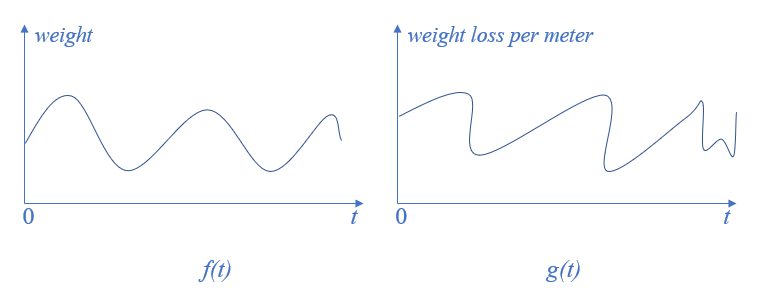
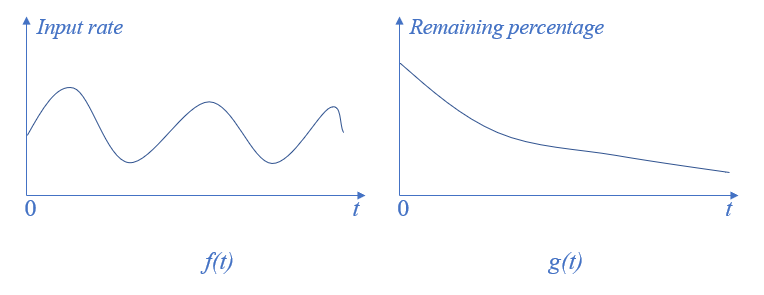
Site updated: 2023-05-13 00:06:12

diff --git a/2023/05/10/CNN/index.html b/2023/05/10/CNN/index.html
@@ -31,8 +31,13 @@
 <meta property="og:locale" content="en_US">
 <meta property="og:image" content="https://zclzcl0223.github.io/2023/05/10/CNN/1.png">
 <meta property="og:image" content="https://zclzcl0223.github.io/2023/05/10/CNN/2.png">
+<meta property="og:image" content="https://zclzcl0223.github.io/2023/05/10/CNN/3.png">
+<meta property="og:image" content="https://zclzcl0223.github.io/2023/05/10/CNN/4.png">
+<meta property="og:image" content="https://zclzcl0223.github.io/2023/05/10/CNN/5.png">
+<meta property="og:image" content="https://zclzcl0223.github.io/2023/05/10/CNN/6.png">
+<meta property="og:image" content="https://zclzcl0223.github.io/2023/05/10/CNN/7.png">
 <meta property="article:published_time" content="2023-05-10T15:45:10.000Z">
-<meta property="article:modified_time" content="2023-05-11T11:24:07.492Z">
+<meta property="article:modified_time" content="2023-05-12T16:04:48.927Z">
 <meta property="article:author" content="ChaosTsang">
 <meta property="article:tag" content="CNN">
 <meta property="article:tag" content="Deep learning">
@@ -206,7 +211,7 @@
                   <i class="far fa-calendar-check"></i>
                 </span>
                 <span class="post-meta-item-text">Edited on</span>
-                <time title="Modified: 2023-05-11 19:24:07" itemprop="dateModified" datetime="2023-05-11T19:24:07+08:00">2023-05-11</time>
+                <time title="Modified: 2023-05-13 00:04:48" itemprop="dateModified" datetime="2023-05-13T00:04:48+08:00">2023-05-13</time>
               </span>
             <span class="post-meta-item">
               <span class="post-meta-item-icon">
@@ -232,13 +237,35 @@
       
         <span id="more"></span>
 
-<h1 id="From-Dense-to-Convolution"><a href="#From-Dense-to-Convolution" class="headerlink" title="From Dense to Convolution"></a>From Dense to Convolution</h1><p>sadasd<br>adasd<br>asdas<br>sdas<br>d<br>asd<br>asd<br>as<br>das<br>d<br>as<br>d</p>
+<h1 id="From-Dense-to-Convolution"><a href="#From-Dense-to-Convolution" class="headerlink" title="From Dense to Convolution"></a>From Dense to Convolution</h1><p>The convolutional layer is the key layer of CNN. It is a special kind of dense layer. CNN is used to deal with images. In this section, we take the grayscale image as example, that is, the feature of an input image is a 2-D matrix. When processing images, firstly, it is reasonable that agents&#39;s awareness of a certain object should not be overly concerned with the precise location of the object in the image because what the object looks like has nothing to do with its position. Besides, the features of one object should only be related to the pixels around it as each pixel only determines the depth of the color and we distinguish objects by their color boundaries. These two priciples are called <em>translation invariance</em> and <em>locality</em> respectively. If fulfilling both priciples, dense layers become convolutional layers.</p>
+<h2 id="Constructing-a-dense-layer"><a href="#Constructing-a-dense-layer" class="headerlink" title="Constructing a dense layer"></a>Constructing a dense layer</h2><p>For convinience, we keep the dimension of a input image $X$ 2-D and make the model parameters of one neuron $w$ have the same dimension as $X$. Under such setting, the output of one neuron become:</p>
+<figure class="highlight python"><table><tr><td class="gutter"><pre><span class="line">1</span><br></pre></td><td class="code"><pre><span class="line">(X*w).<span class="built_in">sum</span>() <span class="comment"># w is a matrix</span></span><br></pre></td></tr></table></figure>
+
+<p>Now that the output of a hidden layer $H$ should be a image that has the same shape as $X$, we have to place $m*n$ neurons in the hidden layer, where $m$ and $n$ are the dimension of $X$. Hence, for a hidden layer, its model parameter $W$ is:</p>
+<p>$$<br>{\begin{bmatrix}<br>    {\begin{bmatrix}<br>        w_{0,0,0,0} &amp; w_{0,0,0,1}\\<br>        w_{0,0,1,0} &amp; w_{0,0,1,1}<br>    \end{bmatrix}<br>    \begin{bmatrix}<br>        w_{0,1,0,0} &amp; w_{0,1,0,1}\\<br>        w_{0,1,1,0} &amp; w_{0,1,1,1}<br>    \end{bmatrix}}\\<br>    {\begin{bmatrix}<br>        w_{1,0,0,0} &amp; w_{1,0,0,1}\\<br>        w_{1,0,1,0} &amp; w_{1,0,1,1}<br>    \end{bmatrix}<br>    \begin{bmatrix}<br>        w_{1,1,0,0} &amp; w_{1,1,0,1}\\<br>        w_{1,1,1,0} &amp; w_{1,1,1,1}<br>    \end{bmatrix}}<br>\end{bmatrix}} _{m\times n\times m\times n&#x3D;2\times 2\times 2\times 2}<br>$$</p>
+<p>And an element of output $H$ is:</p>
+<p>$$<br>[H]_{i,j}&#x3D;\sum_k \sum_l {[W]} _{i,j,k,l} {[X]} _{k,l} + {[U]} _{i,j}<br>$$</p>
+<p>where $U$ contains bias of each output pixel.</p>
+<h2 id="Translation-invariance"><a href="#Translation-invariance" class="headerlink" title="Translation invariance"></a>Translation invariance</h2><p>Now we can clearly see that in order to process an image with $m * n$ data, we almost use $(m * n)^2$ model parameters. This is extremely space-consuming. However, if we apply translation invariance priciple to the dense layer, we can cut it to $m * n$.</p>
+<p>As mentioned above, the activation of a pixel should have nothing to do with its position. This is only possible when ${[W]} _{i,j}$ and ${[U]} _{i,j}$ are both the same for any $(i,j)$. Hence, for a certain hidden layer, we actually just need a 2-D $W$ and a scalar $u$:</p>
+<p>$$<br>{[H]} _{i,j}&#x3D;\sum_k\sum_l{[W]} _{k,l} {[X]} _{k,l}+u<br>$$</p>
+<h2 id="Locality"><a href="#Locality" class="headerlink" title="Locality"></a>Locality</h2><p>So far, we have significantly cut the space of model parameters but it is still too large. Now it is time for <em>locality</em>. As motivated above, there is no need to look so far away from the location of input pixel ${[X]}_ {i,j}$. We just need to consider a small window around ${[X]} _{i,j}$:</p>
+<p>$${[H]}_ {i, j} &#x3D; u + \sum_{a &#x3D; -\Delta}^{\Delta} \sum_{b &#x3D; -\Delta}^{\Delta} {[V]}_ {a, b}  {[X]}_ {i+a, j+b}.$$</p>
+<p>where $\Delta\times\Delta$ is the size of the window and $V$ (size $\Delta\times\Delta$) is the model parameter inside the window, a filter that generates the feature of a zone in an image or a <strong>convolution kernel</strong>.</p>
+<p>Now we construct a convolutional layer with hyperparameters <em>kernel size</em> and <em>stride</em> (see below).</p>
+<p>$$Y &#x3D; X \star W+b$$</p>
+<p>$W$ and $b$ are model parameters that the agent can learn. $\star$ is cross-correlation operator which is slightly different from convolution but their behaviors are the same in the convolutional layer (see below). The dimensions of $Y$ are smaller than the original dimensions, which is:</p>
+<p>$$(n_h-k_h+1)\times(n_w-k_w+1)$$</p>
+<p>where $n_h$ and $n_w$ are the dimensions of $X$, $k_h$ and $k_w$ are the dimensions of $W$. It doesn&#39;t matter and we can solve it easily (see below).</p>
+<p><img src="/2023/05/10/CNN/1.png" alt="1"></p>
+<center style="font-size:12px">Fig. 1. Convolutional layer</center>
+
 <h1 id="Convolution-Fourier-and-Neural-Networks"><a href="#Convolution-Fourier-and-Neural-Networks" class="headerlink" title="Convolution, Fourier and Neural Networks"></a>Convolution, Fourier and Neural Networks</h1><p>Convolution is an operation on two functions ($f$ and $g$) that produces a third function ($f*g$) that express how the shape of one is modified by the other:</p>
 <p>$$(f*g)(t)&#x3D;\int_{-\infty} ^{+\infty}f(\tau)g(t-\tau)d\tau$$</p>
 <p>Physically, we can explain it from two perspectives.</p>
 <h2 id="Stock"><a href="#Stock" class="headerlink" title="Stock"></a>Stock</h2><p>Suppose there is a system with input $f(t)$ at each moment. The input starts decaying with $g(t)$ by the time it enters the system, where $g(t)$ is its remaining percentage.</p>
-<p><img src="/2023/05/10/CNN/1.png" alt="1"></p>
-<center style="font-size:12px">Fig. 1. f(t) and g(t)</center>
+<p><img src="/2023/05/10/CNN/2.png" alt="2"></p>
+<center style="font-size:12px">Fig. 2. f(t) and g(t)</center>
 
 <p>For items that enter the system between $(t,t+\Delta t)$, their margin at $x$ is:</p>
 <p>$$f(t)g(x-t)\Delta t$$</p>
@@ -246,13 +273,51 @@
 <p>$$\int_{t_1}^{t_2}f(t)g(x-t)dt$$</p>
 <p>In this case, we take $f(t)$ as the unstable input and $g(t)$ as the stable output to compute the stock of a system after some time.</p>
 <h2 id="Influence"><a href="#Influence" class="headerlink" title="Influence"></a>Influence</h2><p>In the explaination above, we actually make $dt$ relate to $f(t)$. Namely, $f(t)dt$ is the input of the system during $t$ and $t+\Delta t$. $g(x-t)$ has nothing to do with $dt$. It is just a decaying factor.</p>
-<p>However, we can also take $g(x-t)dt$ as a whole. This will make the $t$ and $f<em>g$ more meaningful. For example, we can regard $f(t)$ as a thing happens at $t$ and $g(t)$ as its influence over time. Then $f</em>g$ can be regarded as the totally influence at $x$ caused by things that happen during $t_1$ and $t_2$:</p>
+<p>However, we can also take $g(x-t)dt$ as a whole. This will make the $t$ and  $f * g$ more meaningful. For example, we can regard $f(t)$ as a thing happens at $t$ and $g(t)$ as its influence over time. Then $f*g$ can be regarded as the totally influence at $x$ caused by things that happen during $t_1$ and $t_2$:</p>
 <p>$$\int_{t_1}^{t_2}f(t)g(x-t)dt$$</p>
 <p>To go a step further, we can take $t$ as position, $f(t)$ as a thing happens at $t$ and keep moving from $t$ to $x$, $g(t)$ as its award or loss per distance. For example, some people whose weight $f(t)$ starts running as $t$ and they will loss $g(t)$ kg per meter. Then $f*g$ is the weight loss of all. (the fatter a person is, the more contribution he&#x2F;she makes).</p>
-<p><img src="/2023/05/10/CNN/2.png" alt="2"></p>
-<center style="font-size:12px">Fig. 2. weight and weight loss</center>
+<p><img src="/2023/05/10/CNN/3.png" alt="3"></p>
+<center style="font-size:12px">Fig. 3. weight and weight loss</center>
 
-<h2 id="Convolution-in-CNN"><a href="#Convolution-in-CNN" class="headerlink" title="Convolution in CNN"></a>Convolution in CNN</h2><h1 id="Reference"><a href="#Reference" class="headerlink" title="Reference"></a>Reference</h1><ul>
+<h2 id="Convolution-in-CNN"><a href="#Convolution-in-CNN" class="headerlink" title="Convolution in CNN"></a>Convolution in CNN</h2><p>For convolution in CNN, we&#39;d better expand its dimension to 2-D and take $t$ as a discrete number which represents position $(x,y)$. Then, we can take $X$ as function $f$ and $W$ as $g$. Now the meaning of convolution in CNN can be interpreted as the influence that pixels around $f(x,y)$ exert on pixel $f(x,y)$ or the certain average feature of the pixels around $f(x,y)$. </p>
+<p>$$f * g&#x3D;\sum _{i,j}f(i,j)g(x-i,y-j)$$</p>
+<p><img src="/2023/05/10/CNN/4.png" alt="4"></p>
+<center style="font-size:12px">Fig. 4. Convolution in CNN</center>
+
+<p>The phrase certain average feature may be a little confusing. However, if we regard the convolution kernel $W$ as a feature filter that extract specific features of a region of an image, it makes sense. Different filters extract different features and their parameters are totally learnt by the agent itself.</p>
+<p><img src="/2023/05/10/CNN/5.png" alt="5"></p>
+<center style="font-size:12px">Fig. 5. The feature filter</center>
+
+<p>There are still some differences between convolution and the convolutional layer, that is, $g$ is not the kernel we actually use. For example, convolution computes $f(x-1,y-1)g(1,1)$ rather than $f(x-1,y-1)g(-1,-1)$. However, in CNN, we actually compute $f(x-1,y-1)g(-1,-1)$. In fact, it doesn&#39;t matter. We just need to turn $g$ around and we get the $W$ we use in CNN. Hence, what the agent computes is <strong>cross-correlation</strong> rather than convolution but the results are the same so we just call it convolution.</p>
+<h1 id="Padding-and-stride"><a href="#Padding-and-stride" class="headerlink" title="Padding and stride"></a>Padding and stride</h1><p>Kernel size, padding and stride are the new hyperparameters that we can adjust in the convolutional layer. </p>
+<ol>
+<li>Kernel size determines the size of window. It is the simplest parameter among them. We usually set it to $3\times3$ or $5\times5$ for 2-D input.</li>
+<li>Padding is used to solve the dimensionality reduction problem of the output image.</li>
+<li>Stride determines the movement of window. The stride we use above is $1\times1$.</li>
+</ol>
+<h2 id="Padding"><a href="#Padding" class="headerlink" title="Padding"></a>Padding</h2><p>Padding adds extra rows and columns around the input images:</p>
+<p><img src="/2023/05/10/CNN/6.png" alt="6"></p>
+<center style="font-size:12px">Fig. 6. Padding</center>
+
+<p>After padding, the shape of output becomes:</p>
+<p>$$(n_h-k_h+1+p_h)\times(n_w-k_w+1+p_w)$$</p>
+<p>Generally, we let:</p>
+<p>$$<br>p_h&#x3D;k_h-1,\space p_w&#x3D;k_w-1<br>$$</p>
+<p>so that the shape of output is the same as the shape of input. For convinience, we often take $k_h\And k_w$ to be odd number. Therefore, we can pad $p_h&#x2F;2$ ($p_w&#x2F;2$)<br> on both sides. If $k_h\And k_w$ are even, $\lceil p_h&#x2F;2\rceil$ on the upper side and $\lfloor p_h&#x2F;2\rfloor$ on the lower side or vice versa.</p>
+<h2 id="Stride"><a href="#Stride" class="headerlink" title="Stride"></a>Stride</h2><p>Stirde refers to the step size of the kernel window on the row and column. When stride is too small, the agent will need a amount of computation to get a small ouput.</p>
+<p><img src="/2023/05/10/CNN/7.png" alt="7"></p>
+<center style="font-size:12px">Fig. 7. Stride (3*2)</center>
+
+<p>For a certain stride $s_h\times s_w$, the shape of output becomes:</p>
+<p>$$\lfloor(n_h-k_h+p_h)&#x2F;s_h+1\rfloor\times\lfloor(n_w-k_w+p_w)&#x2F;s_w+1\rfloor<br>$$</p>
+<p>If:</p>
+<p>$$<br>p_h&#x3D;k_h-1,\space p_w&#x3D;k_w-1<br>$$</p>
+<p>The shape becomes:</p>
+<p>$$\lfloor(n_h-1)&#x2F;s_h+1\rfloor\times\lfloor(n_w-1)&#x2F;s_w+1\rfloor<br>$$</p>
+<blockquote>
+<p>We can roughly regard that the stride will cut the shape of output by a factor of $s_h\And s_w$.</p>
+</blockquote>
+<h1 id="Reference"><a href="#Reference" class="headerlink" title="Reference"></a>Reference</h1><ul>
 <li><a target="_blank" rel="noopener" href="https://www.bilibili.com/video/BV1VV411478E/?spm_id_from=333.788&vd_source=2d980a0365f3ebea674b32924d8a4ce8">从“卷积”、到“图像卷积操作”、再到“卷积神经网络”，“卷积”意义的3次改变</a></li>
 </ul>
 <hr>
@@ -373,7 +438,7 @@
 
       <!--noindex-->
       <div class="post-toc-wrap sidebar-panel">
-          <div class="post-toc motion-element"><ol class="nav"><li class="nav-item nav-level-1"><a class="nav-link" href="#From-Dense-to-Convolution"><span class="nav-number">1.</span> <span class="nav-text">From Dense to Convolution</span></a></li><li class="nav-item nav-level-1"><a class="nav-link" href="#Convolution-Fourier-and-Neural-Networks"><span class="nav-number">2.</span> <span class="nav-text">Convolution, Fourier and Neural Networks</span></a><ol class="nav-child"><li class="nav-item nav-level-2"><a class="nav-link" href="#Stock"><span class="nav-number">2.1.</span> <span class="nav-text">Stock</span></a></li><li class="nav-item nav-level-2"><a class="nav-link" href="#Influence"><span class="nav-number">2.2.</span> <span class="nav-text">Influence</span></a></li><li class="nav-item nav-level-2"><a class="nav-link" href="#Convolution-in-CNN"><span class="nav-number">2.3.</span> <span class="nav-text">Convolution in CNN</span></a></li></ol></li><li class="nav-item nav-level-1"><a class="nav-link" href="#Reference"><span class="nav-number">3.</span> <span class="nav-text">Reference</span></a></li></ol></div>
+          <div class="post-toc motion-element"><ol class="nav"><li class="nav-item nav-level-1"><a class="nav-link" href="#From-Dense-to-Convolution"><span class="nav-number">1.</span> <span class="nav-text">From Dense to Convolution</span></a><ol class="nav-child"><li class="nav-item nav-level-2"><a class="nav-link" href="#Constructing-a-dense-layer"><span class="nav-number">1.1.</span> <span class="nav-text">Constructing a dense layer</span></a></li><li class="nav-item nav-level-2"><a class="nav-link" href="#Translation-invariance"><span class="nav-number">1.2.</span> <span class="nav-text">Translation invariance</span></a></li><li class="nav-item nav-level-2"><a class="nav-link" href="#Locality"><span class="nav-number">1.3.</span> <span class="nav-text">Locality</span></a></li></ol></li><li class="nav-item nav-level-1"><a class="nav-link" href="#Convolution-Fourier-and-Neural-Networks"><span class="nav-number">2.</span> <span class="nav-text">Convolution, Fourier and Neural Networks</span></a><ol class="nav-child"><li class="nav-item nav-level-2"><a class="nav-link" href="#Stock"><span class="nav-number">2.1.</span> <span class="nav-text">Stock</span></a></li><li class="nav-item nav-level-2"><a class="nav-link" href="#Influence"><span class="nav-number">2.2.</span> <span class="nav-text">Influence</span></a></li><li class="nav-item nav-level-2"><a class="nav-link" href="#Convolution-in-CNN"><span class="nav-number">2.3.</span> <span class="nav-text">Convolution in CNN</span></a></li></ol></li><li class="nav-item nav-level-1"><a class="nav-link" href="#Padding-and-stride"><span class="nav-number">3.</span> <span class="nav-text">Padding and stride</span></a><ol class="nav-child"><li class="nav-item nav-level-2"><a class="nav-link" href="#Padding"><span class="nav-number">3.1.</span> <span class="nav-text">Padding</span></a></li><li class="nav-item nav-level-2"><a class="nav-link" href="#Stride"><span class="nav-number">3.2.</span> <span class="nav-text">Stride</span></a></li></ol></li><li class="nav-item nav-level-1"><a class="nav-link" href="#Reference"><span class="nav-number">4.</span> <span class="nav-text">Reference</span></a></li></ol></div>
       </div>
       <!--/noindex-->
 

diff --git a/2023/05/10/FourierTransform/index.html b/2023/05/10/FourierTransform/index.html
@@ -32,7 +32,7 @@
 <meta property="og:image" content="https://zclzcl0223.github.io/2023/05/10/FourierTransform/1.png">
 <meta property="og:image" content="https://zclzcl0223.github.io/2023/05/10/FourierTransform/2.png">
 <meta property="article:published_time" content="2023-05-10T15:46:14.000Z">
-<meta property="article:modified_time" content="2023-05-11T07:22:59.833Z">
+<meta property="article:modified_time" content="2023-05-11T16:08:29.074Z">
 <meta property="article:author" content="ChaosTsang">
 <meta property="article:tag" content="CNN">
 <meta property="article:tag" content="Math">
@@ -206,7 +206,7 @@
                   <i class="far fa-calendar-check"></i>
                 </span>
                 <span class="post-meta-item-text">Edited on</span>
-                <time title="Modified: 2023-05-11 15:22:59" itemprop="dateModified" datetime="2023-05-11T15:22:59+08:00">2023-05-11</time>
+                <time title="Modified: 2023-05-12 00:08:29" itemprop="dateModified" datetime="2023-05-12T00:08:29+08:00">2023-05-12</time>
               </span>
             <span class="post-meta-item">
               <span class="post-meta-item-icon">
@@ -232,29 +232,28 @@
       
         <span id="more"></span>
 
-<h1 id="Inner-product"><a href="#Inner-product" class="headerlink" title="Inner product"></a>Inner product</h1><p>The inner product generalizes the dot product to abstract vector spaces over a field of scalars, being either the field of real numbers $\R$  or the field of complex numbers $\Complex$. It is usually denoted using angular brackets by $\braket{\vec{a}, \vec{b}}$. Each vector in the field of real numbers $\R$ can be regarded as a <strong>discrete functions</strong> with domain $\{k\in\N:1\le k\le n\}$. And the inner product measures the similarity of two vectors:</p>
+<h1 id="Inner-product"><a href="#Inner-product" class="headerlink" title="Inner product"></a>Inner product</h1><p>The inner product generalizes the dot product to abstract vector spaces over a field of scalars, being either the field of real numbers $R$  or the field of complex numbers $C$. It is usually denoted using angular brackets by $\braket{\vec{a}, \vec{b}}$. Each vector in the field of real numbers $R$ can be regarded as a <strong>discrete functions</strong> with domain $\{k\in N:1\le k\le n\}$. And the inner product measures the similarity of two vectors:</p>
 <p>$$\vec{a}\cdot\vec{b}&#x3D;\sum\limits_{i&#x3D;0}^na_ib_i\Delta n$$</p>
 <p>where $\Delta n&#x3D;1$ , can be regarded as the difference of two dimension. It is easy to generalize this to continuous functions. In this case, the dimension of a vector is <strong>infinity</strong> and the sum will diverge. Therefore, we average each term, that is $dx$:</p>
 <p>$$\braket{f,g}&#x3D;\int_a^bf(x)g(x)dx$$</p>
-<p>Similarly, the inner produce of functions can measures the similarity of two functions.</p>
-<h1 id="Orthogonality-of-trigonometric-functions"><a href="#Orthogonality-of-trigonometric-functions" class="headerlink" title="Orthogonality of trigonometric functions"></a>Orthogonality of trigonometric functions</h1><p>We define:<br>$$\{\sin0x,\cos0x,\sin x,\cos x,...,\sin nx, \cos nx\}$$<br>as trigonometric space. In this space, the inner product of two different function with domain $\{x\in\R:-\pi\le x\le \pi\}$ is zero, that is, the two functions are orthogonal:</p>
-<p>$$\braket{\sin nx, \sin mx}&#x3D;\int_{-\pi}^\pi\sin nx\sin mxdx&#x3D;0$$<br>where $n\ne m$ and either or both of $\sin$ could be $\cos$.</p>
-<p>If the two functions are the same and are not $0$, their inner product is $\pi$:<br>$$\braket{\sin nx, \sin nx}&#x3D;\int_{-\pi}^\pi\sin nx\sin nxdx&#x3D;\pi$$</p>
-<h1 id="Fourier-series"><a href="#Fourier-series" class="headerlink" title="Fourier series"></a>Fourier series</h1><p>Fourier series is another kind of series besides power series. It can use functions in trigonometric space to represent any periodic functions.</p>
-<h2 id="T-x3D-2-pi"><a href="#T-x3D-2-pi" class="headerlink" title="$T&#x3D;2\pi$"></a>$T&#x3D;2\pi$</h2><p>For a function of period $2\pi$, $f(x)&#x3D;f(x+2\pi)$, we represent it using trigonometric functions:</p>
+<p>Similarly, the inner product of functions measures the similarity of two functions.</p>
+<h1 id="Orthogonality-of-trigonometric-functions"><a href="#Orthogonality-of-trigonometric-functions" class="headerlink" title="Orthogonality of trigonometric functions"></a>Orthogonality of trigonometric functions</h1><p>We define:<br>$$\{\sin0x,\cos0x,\sin x,\cos x,...,\sin nx, \cos nx\}$$<br>as trigonometric space. In this space, the inner product of two different functions with domain $\{x\in R:-\pi\le x\le \pi\}$ is zero, that is, the two functions are orthogonal:</p>
+<p>$$\braket{\sin nx, \sin mx}&#x3D;\int_{-\pi}^\pi\sin nx\sin mxdx&#x3D;0$$<br>where $n\ne m$ and either or both of $\sin$ could be $\cos$. If the two functions are the same and are not $0$, their inner product is $\pi$:<br>$$\braket{\sin nx, \sin nx}&#x3D;\int_{-\pi}^\pi\sin nx\sin nxdx&#x3D;\pi$$</p>
+<h1 id="Fourier-series"><a href="#Fourier-series" class="headerlink" title="Fourier series"></a>Fourier series</h1><p>Fourier series is another kind of series besides power series. It uses functions in trigonometric space to represent any periodic functions.</p>
+<h2 id="T-x3D-2-pi"><a href="#T-x3D-2-pi" class="headerlink" title="$T&#x3D;2\pi$"></a>$T&#x3D;2\pi$</h2><p>For a function of period $2\pi$, $f(x)&#x3D;f(x+2\pi)$, we can represent it using trigonometric functions:</p>
 <p>$$f(x)&#x3D;\sum\limits_{n&#x3D;0}^\infty a_n\cos nx+\sum\limits_{n&#x3D;0}^\infty b_n\sin nx$$</p>
-<p>To get $a_n\space(n\ne0)$ , we multiply both sides by $\cos nx$ and integrate at $(-\pi, \pi)$:</p>
-<p>$$\int_{-\pi}^\pi f(x)\cos nxdx&#x3D;\sum\limits_{m&#x3D;0}^\infty\int_{-\pi}^\pi a_m\cos mx\cdot\cos nxdx+\sum\limits_{m&#x3D;0}^\infty\int_{-\pi}^\pi b_m\sin mx\cdot\cos nxdx \tag{1}$$</p>
-<p>Because of the orthogonality of trigonometric functions, formula(1) becomes:</p>
+<p>To get $a_n\space(n\ne0)$ , multiply both sides by $\cos nx$ and integrate at $[-\pi, \pi]$:</p>
+<p>$$\int_{-\pi}^\pi f(x)\cos nxdx&#x3D;\sum\limits_{m&#x3D;0}^\infty[\int_{-\pi}^\pi a_m\cos mx\cdot\cos nxdx+b_m\sin mx\cdot\cos nxdx]\tag{1}$$</p>
+<p>Because of the orthogonality of trigonometric functions, formula (1) becomes:</p>
 <p>$$\int_{-\pi}^\pi f(x)\cos nxdx&#x3D;\int_{-\pi}^\pi a_n\cos nx\cdot\cos nxdx&#x3D;a_n\pi$$</p>
 <p>Therefore:</p>
-<p>$$\bm{ a_n&#x3D;\frac{1}{\pi}\int_{-\pi}^\pi f(x)\cos nxdx}$$</p>
+<p>$$a_n&#x3D;\frac{1}{\pi}\int_{-\pi}^\pi f(x)\cos nxdx$$</p>
 <p>If $n&#x3D;0$:</p>
 <p>$$\int_{-\pi}^\pi f(x)dx&#x3D;a_02\pi\rightarrow a_0&#x3D;\frac{1}{2\pi}\int_{-\pi}^\pi f(x)dx$$</p>
 <p>For unity, we usually use $2a_0\space(A_0)$ as $a_0$:</p>
 <p>$$A_0&#x3D;2a_0&#x3D;\frac{1}{\pi}\int_{-\pi}^\pi f(x)dx$$</p>
-<p>Similarly, if multiply both sides by $\sin nx\space(n\in\N)$ and integrate at $(-\pi, \pi)$, we get $b_n$:</p>
-<p>$$\bm{b_n&#x3D;\frac{1}{\pi}\int_{-\pi}^\pi f(x)\sin nxdx}$$</p>
+<p>Similarly, if multiply both sides by $\sin nx\space(n\in N)$ and integrate at $[-\pi, \pi]$, we get $b_n$:</p>
+<p>$$b_n&#x3D;\frac{1}{\pi}\int_{-\pi}^\pi f(x)\sin nxdx$$</p>
 <p>So, the fourier series of $f(x)&#x3D;f(x+2\pi)$ is:</p>
 <p>$$f(x)&#x3D;\frac{a_0}{2}+\sum\limits_{n&#x3D;1}^\infty [a_n\cos nx+b_n\sin nx], \begin{cases}<br>   a_0&#x3D;\frac{1}{\pi}\int_{-\pi}^\pi f(x)dx &amp;\\<br>   a_n&#x3D;\frac{1}{\pi}\int_{-\pi}^\pi f(x)\cos nxdx &amp;\\<br>   b_0&#x3D;0 &amp;\\<br>   b_n&#x3D;\frac{1}{\pi}\int_{-\pi}^\pi f(x)\sin nxdx &amp;<br>\end{cases}$$</p>
 <h2 id="T-x3D-2L"><a href="#T-x3D-2L" class="headerlink" title="$T&#x3D;2L$"></a>$T&#x3D;2L$</h2><p>More generally, for any function with period $2L$, $f(t)&#x3D;f(t+2L)$, we assume:</p>
@@ -268,7 +267,7 @@
 <p>$$g(x)&#x3D;g(x+2\pi)$$</p>
 <p>We have already know the fourier series of functions with period $2\pi$ is:</p>
 <p>$$g(x)&#x3D;\frac{a_0}{2}+\sum\limits_{n&#x3D;1}^\infty [a_n\cos nx+b_n\sin nx], \begin{cases}<br>   a_0&#x3D;\frac{1}{\pi}\int_{-\pi}^\pi g(x)dx &amp;\\<br>   a_n&#x3D;\frac{1}{\pi}\int_{-\pi}^\pi g(x)\cos nxdx &amp;\\<br>   b_0&#x3D;0 &amp;\\<br>   b_n&#x3D;\frac{1}{\pi}\int_{-\pi}^\pi g(x)\sin nxdx &amp;<br>\end{cases}$$</p>
-<p>Since $t&#x3D;\frac{L}{\pi}x$ and $g(x)&#x3D;f(\frac{L}{\pi}x)&#x3D;f(t)$, we replace $x$ with $t$:</p>
+<p>Since $t&#x3D;\frac{L}{\pi}x$ and $g(x)&#x3D;f(\frac{L}{\pi}x)&#x3D;f(t)$, we can replace $x$ with $t$:</p>
 <p>$$dx&#x3D;\frac{\pi}{L}dt$$</p>
 <p>$$x\in[-\pi,\pi]\rightarrow t\in[-L,L]$$</p>
 <p>Therefore:</p>
@@ -277,16 +276,16 @@
 <p>$$f(t)&#x3D;\frac{a_0}{2}+\sum\limits_{n&#x3D;1}^\infty [a_n\cos n\omega_0 t+b_n\sin n\omega_0 t], \begin{cases}<br>   a_0&#x3D;\frac{2}{T}\int_{0}^T f(t)dt &amp;\\<br>   a_n&#x3D;\frac{2}{T}\int_{0}^T f(t)\cos n\omega_0 tdt &amp;\\<br>   b_0&#x3D;0 &amp;\\<br>   b_n&#x3D;\frac{2}{T}\int_{0}^T f(t)\sin n\omega_0 tdt &amp;<br>\end{cases}$$</p>
 <h2 id="Complex-form"><a href="#Complex-form" class="headerlink" title="Complex form"></a>Complex form</h2><p>Fourier series can be transformed into complex form using Euler&#39;s formula:</p>
 <p>$$e^{i\theta}&#x3D;\cos\theta+i\sin\theta\tag{2}$$<br>$$e^{-i\theta}&#x3D;\cos\theta-i\sin\theta\tag{3}$$</p>
-<p>By combining (1) and (2), we can get:</p>
+<p>By combining (2) and (3), we can get:</p>
 <p>$$\cos\theta&#x3D;\frac{1}{2}(e^{i\theta}+e^{-i\theta})\tag{4}$$<br>$$\sin\theta&#x3D;-\frac{1}{2}i(e^{i\theta}-e^{-i\theta})\tag{5}$$</p>
 <p>Put the above two formulas into fourier series, we get:</p>
-<p>$$\begin{align*}<br>    f(t) &amp;&#x3D;\frac{a_0}{2}+\sum\limits_{n&#x3D;1}^\infty [\frac{a_n}{2}(e^{in\omega_0 t}+e^{-in\omega_0 t})-\frac{b_n}{2}i(e^{in\omega_0 t}-e^{-in\omega_0 t})]\\<br>         &amp;&#x3D;\frac{a_0}{2}+\sum\limits_{n&#x3D;1}^\infty [\frac{a_n-ib_n}{2}e^{in\omega_0 t}+\frac{a_n+ib_n}{2}e^{-in\omega_0 t}]\\<br>         &amp;&#x3D;\frac{a_0}{2}+\sum\limits_{n&#x3D;1} ^{+\infty} \frac{a_n-ib_n}{2}e^{in\omega_0 t}+\sum\limits_{n&#x3D;-1} ^{-\infty} \frac{a_{-n}+ib_{-n}}{2}e^{in\omega_0 t}\tag{6}\\<br>         &amp;&#x3D;\sum\limits_{-\infty} ^{+\infty}C_ne^{in\omega_0 t}\tag{7}<br>\end{align*}$$</p>
+<p>$$\begin{align*}<br>    f(t) &amp;&#x3D;\frac{a_0}{2}+\sum\limits_{n&#x3D;1}^\infty [\frac{a_n}{2}(e^{in\omega_0 t}+e^{-in\omega_0 t})-\frac{b_n}{2}i(e^{in\omega_0 t}-e^{-in\omega_0 t})]\\<br>         &amp;&#x3D;\frac{a_0}{2}+\sum\limits_{n&#x3D;1}^\infty [\frac{a_n-ib_n}{2}e^{in\omega_0 t}+\frac{a_n+ib_n}{2}e^{-in\omega_0 t}]\\<br>         &amp;&#x3D;\frac{a_0}{2}+\sum\limits_{n&#x3D;1} ^{+\infty} \frac{a_n-ib_n}{2}e^{in\omega_0 t}+\sum\limits_{n&#x3D;-1} ^{-\infty} \frac{a_{-n}+ib_{-n}}{2}e^{in\omega_0 t}\tag{6}\\<br>         &amp;&#x3D;\sum\limits_{n&#x3D;-\infty} ^{+\infty}C_ne^{in\omega_0 t}\tag{7}<br>\end{align*}$$</p>
 <p>For (6) to (7), since $e^0&#x3D;1$, we can treat $\frac{a_0}{2}$ as $C_0$. Therefore:</p>
 <p>$$<br>C_n&#x3D;<br>\begin{cases}<br>    \frac{1}{2}a_0&#x3D;\frac{1}{T}\int_{0}^T f(t)dt,&amp;n&#x3D;0\\<br>    \frac{1}{2}(a_n-ib_n)&#x3D;\frac{1}{T}\int_{0}^T f(t)(\cos n\omega_0 t-i\sin n\omega_0 t)dt&#x3D;\frac{1}{T}\int_{0}^T f(t)e^{-in\omega_0 t}dt,&amp;n&#x3D;1,2,3...\\<br>    \frac{1}{2}(a_n+ib_n)&#x3D;\frac{1}{T}\int_{0}^T f(t)(\cos n\omega_0 t+i\sin n\omega_0 t)dt&#x3D;\frac{1}{T}\int_{0}^T f(t)e^{in\omega_0 t}dt,&amp;n&#x3D;-1,-2,-3...<br>\end{cases}<br>$$<br>Since $e^0&#x3D;1$:</p>
-<p>$$C_n&#x3D;\frac{1}{T}\int_{0}^T f(t)e^{-in\omega_0 t}dt,n\in\Z$$</p>
+<p>$$C_n&#x3D;\frac{1}{T}\int_{0}^T f(t)e^{-in\omega_0 t}dt,n\in Z$$</p>
 <p>Therefore:</p>
 <p>$$f(t)&#x3D;\sum\limits_{n&#x3D;-\infty} ^{+\infty}C_ne^{in\omega_0 t}<br>      &#x3D;\sum\limits_{n&#x3D;-\infty} ^{+\infty}e^{in\omega_0 t}\frac{1}{T}\int_{0}^T f(t)e^{-in\omega_0 t}dt$$</p>
-<h1 id="Fourier-transform"><a href="#Fourier-transform" class="headerlink" title="Fourier transform"></a>Fourier transform</h1><p>In the complex form of fourier series, it is $C_n$ that defines the form of $f(t)$ in frequency domain, where $C_n&#x3D;A_n+iB_n$. Based on the different of frequency $\omega$, the curve of $f(t)$ in the time domain $[0,T]$ is transformed into a point in frequency domain:</p>
+<h1 id="Fourier-transform"><a href="#Fourier-transform" class="headerlink" title="Fourier transform"></a>Fourier transform</h1><p>In the complex form of fourier series, it is $C_n$ that defines the form of $f(t)$ in frequency domain, where $C_n&#x3D;A_n+iB_n$. Based on the difference of frequency $n\omega_0$, the curve of $f(t)$ in the time domain $[0,T]$ is transformed into a point in frequency domain:</p>
 <p><img src="/2023/05/10/FourierTransform/1.png" alt="1"></p>
 <center style="font-size:12px">Fig. 1. Cn in the complex domain</center>
 
@@ -301,7 +300,7 @@
 <p><img src="/2023/05/10/FourierTransform/2.png" alt="2"></p>
 <center style="font-size:12px">Fig. 2. Amplitude-omega</center>
 
-<p>$e^{i\omega t}$ represents different waveforms while $F(w)$ represents the intensity of different waveforms in the original function $f(t)$. Therefore, we can restore the original function by by superimposing waveforms of different intensities. And this is <strong>Inverse Fourier Transform</strong>.</p>
+<p>$e^{i\omega t}$ represents different waveforms while $F(w)$ represents the intensity of different waveforms in the original function $f(t)$. Therefore, we can restore the original function by superimposing waveforms of different intensities. And this is <strong>Inverse Fourier Transform</strong>.</p>
 <h1 id="Reference"><a href="#Reference" class="headerlink" title="Reference"></a>Reference</h1><ul>
 <li><a target="_blank" rel="noopener" href="https://www.bilibili.com/video/BV1Et411R78v/?spm_id_from=333.788.recommend_more_video.-1&vd_source=2d980a0365f3ebea674b32924d8a4ce8">纯干货数学推导_傅里叶级数与傅里叶变换</a></li>
 <li><a target="_blank" rel="noopener" href="https://www.bilibili.com/video/BV1ce4y1p7jF/?spm_id_from=333.880.my_history.page.click&vd_source=2d980a0365f3ebea674b32924d8a4ce8">卷积神经网络的底层是傅里叶变换，傅里叶变换的底层是希尔伯特空间坐标变换</a></li>

diff --git a/2023/04/28/DiveIntoDeepLearningIntroduction/index.html b/2023/04/28/DiveIntoDeepLearningIntroduction/index.html
@@ -33,7 +33,7 @@
 <meta property="og:image" content="https://zclzcl0223.github.io/2023/04/28/DiveIntoDeepLearningIntroduction/2.png">
 <meta property="og:image" content="https://zclzcl0223.github.io/2023/04/28/DiveIntoDeepLearningIntroduction/3.png">
 <meta property="article:published_time" content="2023-04-27T16:00:44.000Z">
-<meta property="article:modified_time" content="2023-05-10T06:23:17.285Z">
+<meta property="article:modified_time" content="2023-05-12T10:08:30.147Z">
 <meta property="article:author" content="ChaosTsang">
 <meta property="article:tag" content="Deep learning">
 <meta name="twitter:card" content="summary">
@@ -206,7 +206,7 @@
                   <i class="far fa-calendar-check"></i>
                 </span>
                 <span class="post-meta-item-text">Edited on</span>
-                <time title="Modified: 2023-05-10 14:23:17" itemprop="dateModified" datetime="2023-05-10T14:23:17+08:00">2023-05-10</time>
+                <time title="Modified: 2023-05-12 18:08:30" itemprop="dateModified" datetime="2023-05-12T18:08:30+08:00">2023-05-12</time>
               </span>
             <span class="post-meta-item">
               <span class="post-meta-item-icon">
@@ -239,6 +239,9 @@
 <p>If you want to remove a virtual environment, use:</p>
 <figure class="highlight bash"><table><tr><td class="gutter"><pre><span class="line">1</span><br></pre></td><td class="code"><pre><span class="line">conda remove -n d2l-zh --all</span><br></pre></td></tr></table></figure>
 <p>Download the courseware from <a target="_blank" rel="noopener" href="http://zh-v2.d2l.ai/d2l-zh.zip">http://zh-v2.d2l.ai/d2l-zh.zip</a> and unzip it. Now you can enter your conda prompt, activate virtual environment <code>d2l-zh</code>, enter your courseware folder <code>d2l-zh</code> and enter <code>jupyter notebook</code> to open the folder with jupyter notebook.</p>
+<blockquote>
+<p><code>gym</code> and <code>scipy</code> should also be installed using <code>pip</code>.</p>
+</blockquote>
 <h1 id="Introduction"><a href="#Introduction" class="headerlink" title="Introduction"></a>Introduction</h1><p>This only includes what I&#39;m interested in:</p>
 <ul>
 <li>Convolutional neural network (CNN): LeNet, AlexNet, VGG, Inception, ResNet</li>

diff --git a/index.html b/index.html
@@ -199,7 +199,7 @@
                   <i class="far fa-calendar-check"></i>
                 </span>
                 <span class="post-meta-item-text">Edited on</span>
-                <time title="Modified: 2023-05-11 19:24:07" itemprop="dateModified" datetime="2023-05-11T19:24:07+08:00">2023-05-11</time>
+                <time title="Modified: 2023-05-13 00:04:48" itemprop="dateModified" datetime="2023-05-13T00:04:48+08:00">2023-05-13</time>
               </span>
             <span class="post-meta-item">
               <span class="post-meta-item-icon">
@@ -355,7 +355,7 @@
                   <i class="far fa-calendar-check"></i>
                 </span>
                 <span class="post-meta-item-text">Edited on</span>
-                <time title="Modified: 2023-05-11 15:22:59" itemprop="dateModified" datetime="2023-05-11T15:22:59+08:00">2023-05-11</time>
+                <time title="Modified: 2023-05-12 00:08:29" itemprop="dateModified" datetime="2023-05-12T00:08:29+08:00">2023-05-12</time>
               </span>
             <span class="post-meta-item">
               <span class="post-meta-item-icon">
@@ -592,7 +592,7 @@
                   <i class="far fa-calendar-check"></i>
                 </span>
                 <span class="post-meta-item-text">Edited on</span>
-                <time title="Modified: 2023-05-10 14:23:17" itemprop="dateModified" datetime="2023-05-10T14:23:17+08:00">2023-05-10</time>
+                <time title="Modified: 2023-05-12 18:08:30" itemprop="dateModified" datetime="2023-05-12T18:08:30+08:00">2023-05-12</time>
               </span>
             <span class="post-meta-item">
               <span class="post-meta-item-icon">

diff --git a/css/main.css b/css/main.css
@@ -1212,7 +1212,7 @@ pre .javascript .function {
 }
 .links-of-author a::before,
 .links-of-author span.exturl::before {
-  background: #ffffe2;
+  background: #ffff09;
   border-radius: 50%;
   content: ' ';
   display: inline-block;
